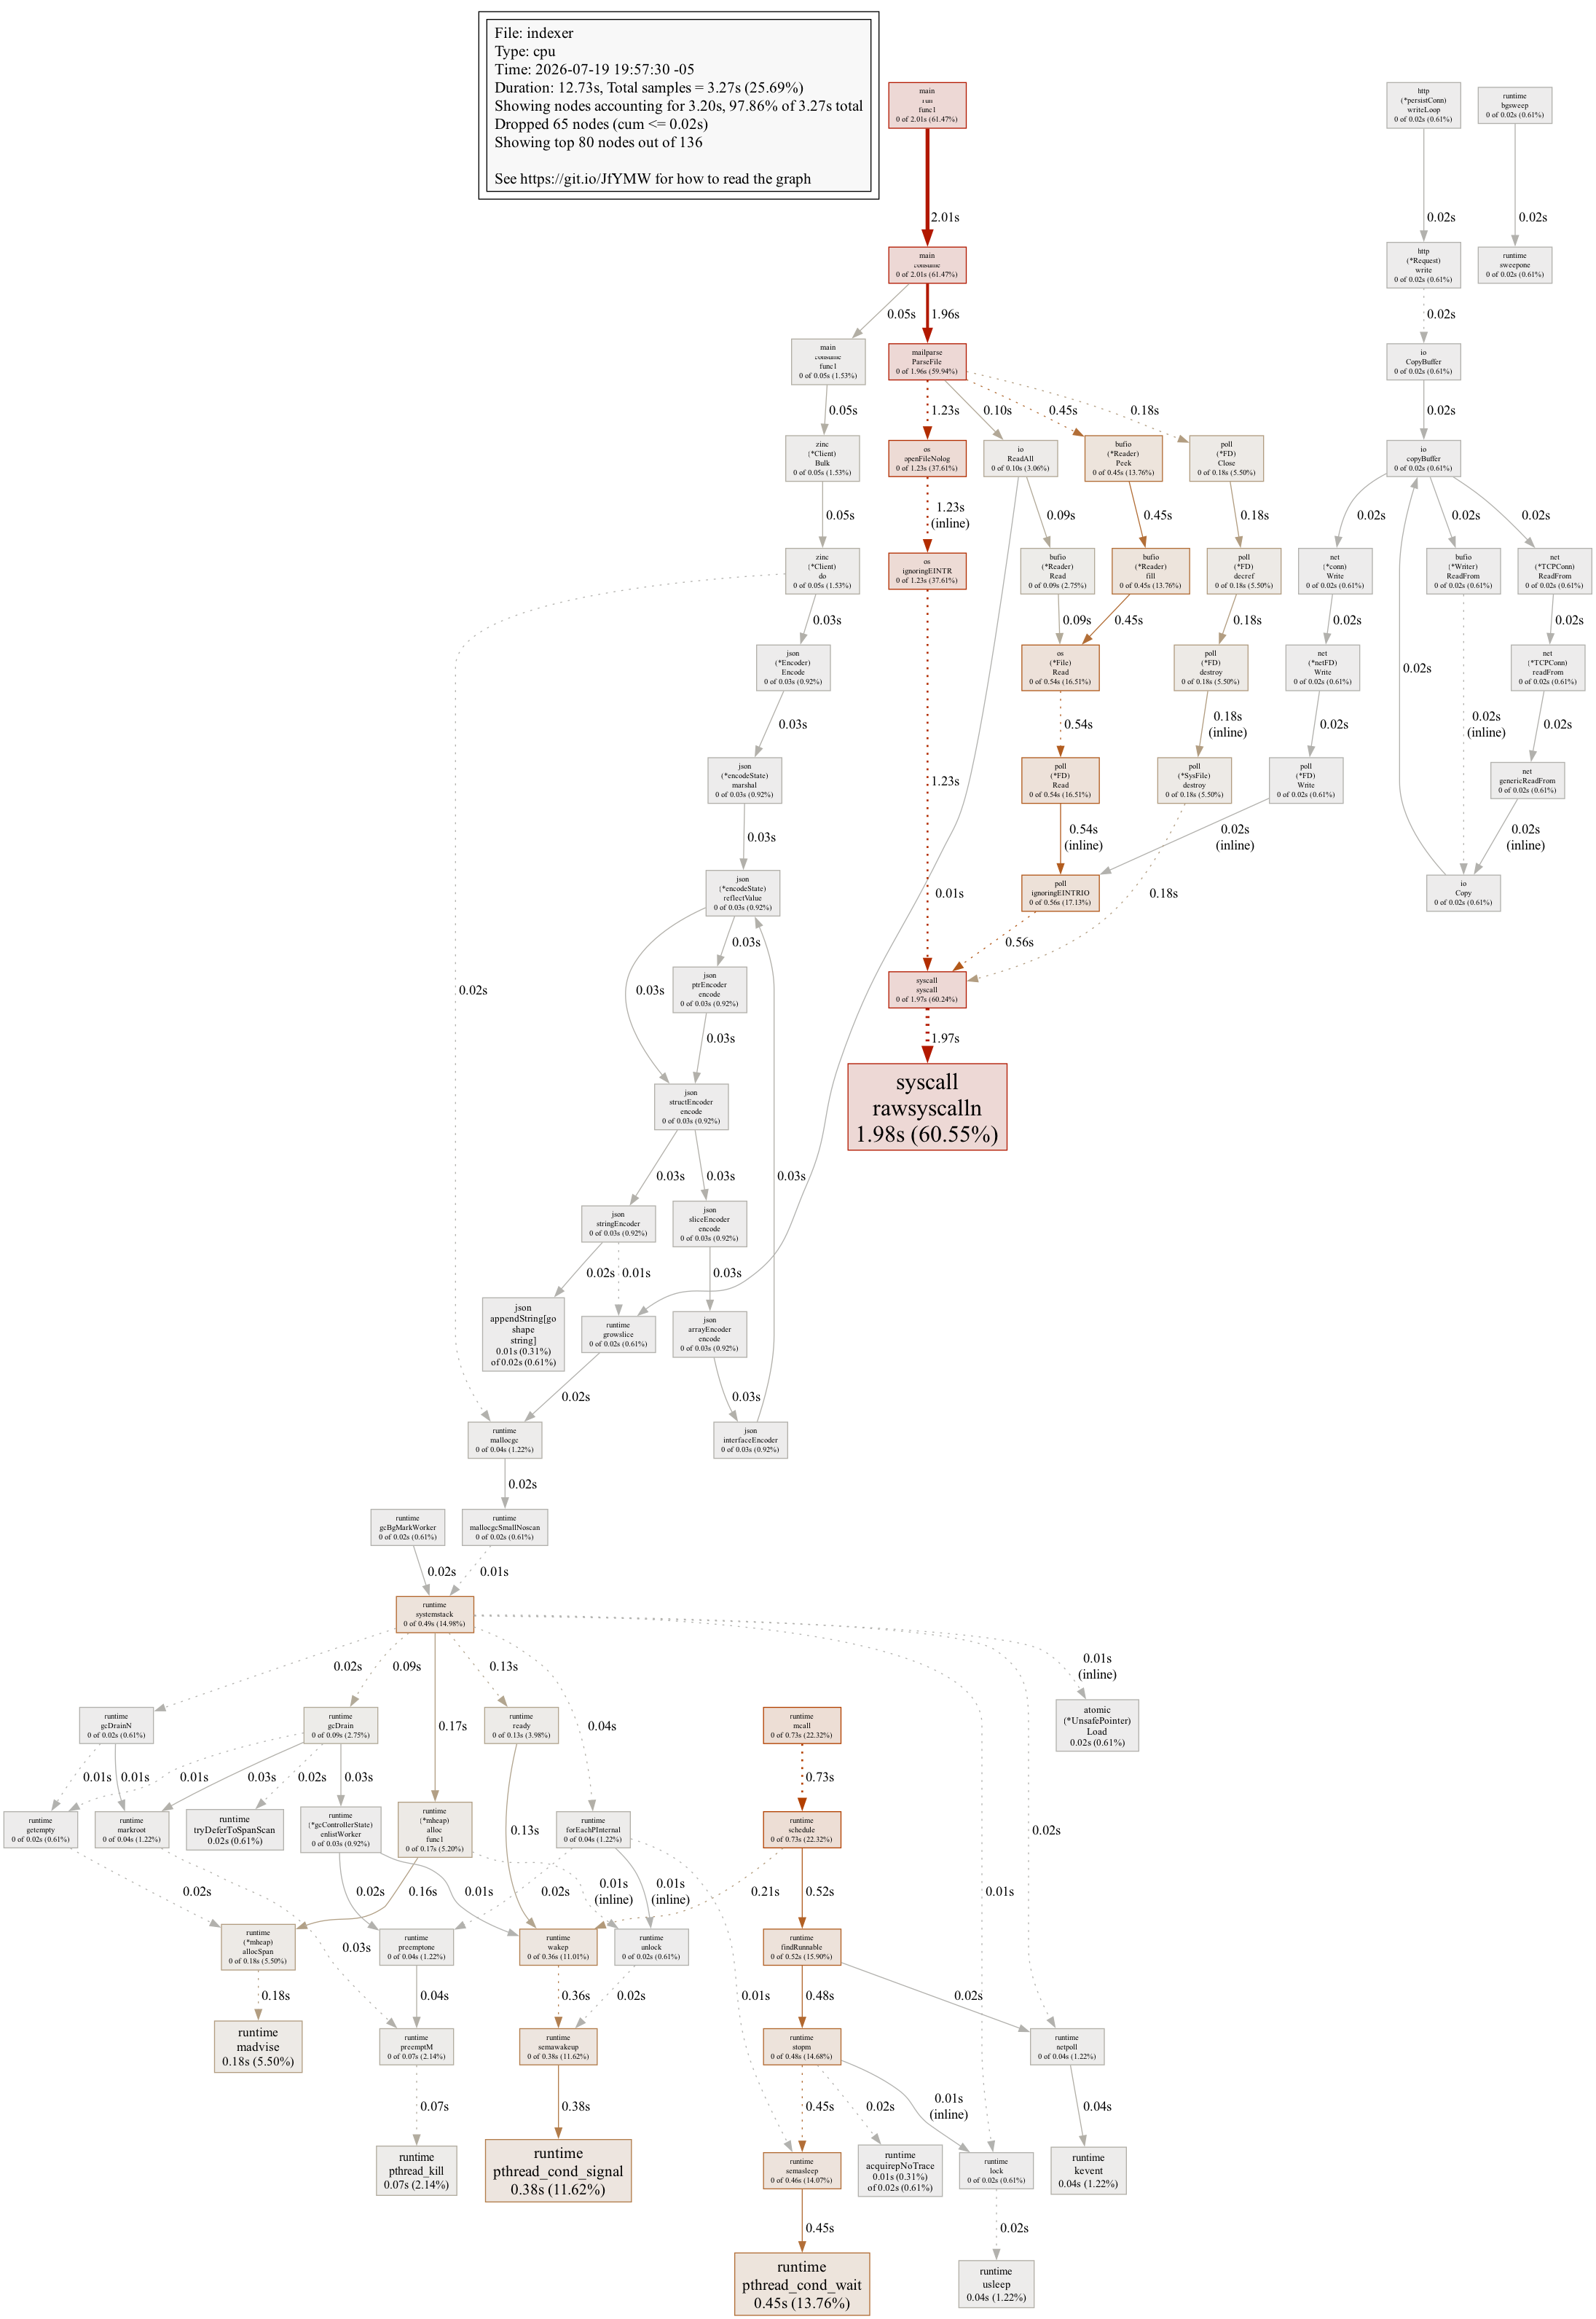
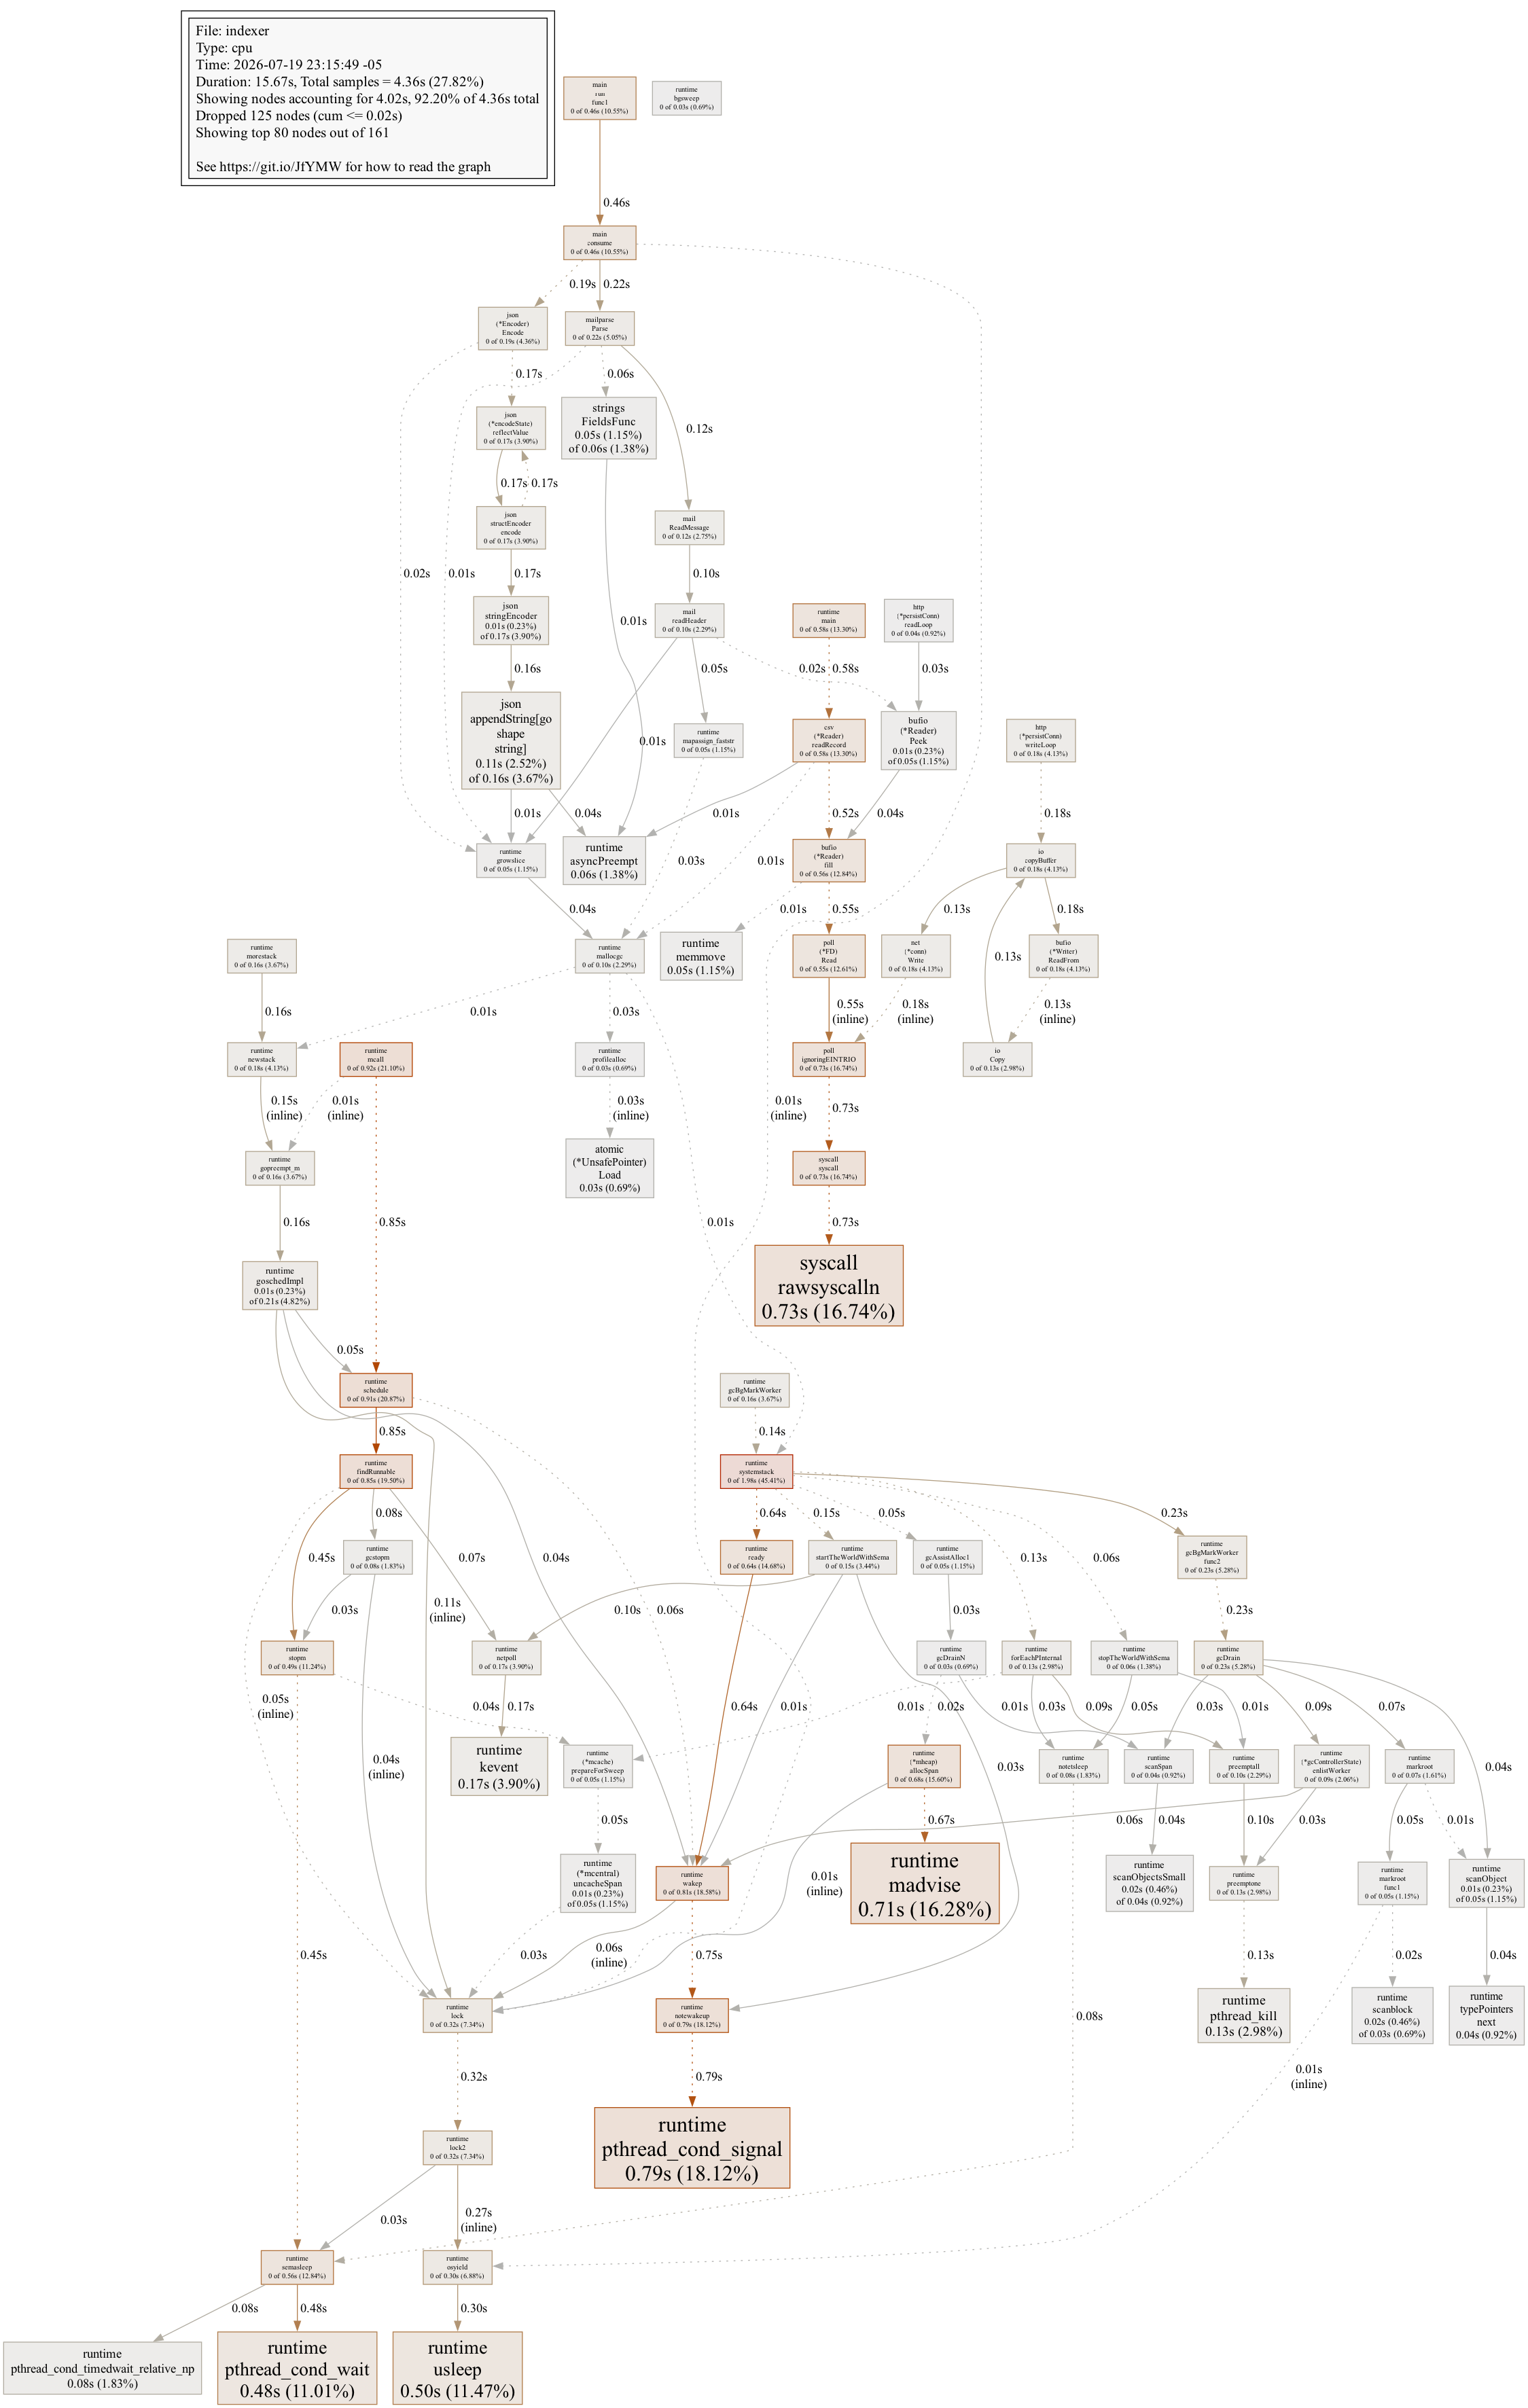
Profiling sobre la base completa de Enron
Perfiles regenerados con 100000 correos reales en vez de sinteticos:
15.52s a 9.41s. El perfil muestra el cuello de botella desplazandose
de la espera de red (baseline, CPU activa 28%) a la serializacion JSON
y el movimiento de memoria (concurrente), que marca el limite practico
de esta arquitectura.

diff --git a/README.md b/README.md
@@ -49,10 +49,17 @@ go build -o bin/indexer ./cmd/indexer
 go build -o bin/yanakilla ./cmd/yanakilla
 ```
 
-Indexar una base de correos:
+Indexar una base de correos. El indexador acepta tanto el árbol de directorios original como el export en CSV, y decide según lo que reciba:
 
 ```bash
 ./bin/indexer enron_mail_20110402
+./bin/indexer emails.csv
+```
+
+El CSV debe tener las columnas `file` y `message`, donde `file` es la ruta original del correo y `message` su contenido completo. Para reconstruir el árbol de directorios a partir del CSV:
+
+```bash
+./bin/indexer -extract enron_mail_20110402 emails.csv
 ```
 
 Levantar el servidor:
@@ -105,25 +112,40 @@ go tool pprof -top profiles/cpu.prof
 
 ### Hallazgos
 
-Medición sobre 40 000 correos (77 MB de contenido) en Apple Silicon.
+Medición sobre 100 000 correos de la base de Enron (228 MB de contenido) en Apple Silicon.
 
 | Configuración | Duración | Throughput |
 |---------------|----------|------------|
-| 1 worker, batch 100 | 12.60 s | 3 175 docs/s |
-| 8 workers, batch 1000 | 5.35 s | 7 479 docs/s |
+| 1 worker, batch 100 | 15.52 s | 6 444 docs/s |
+| 8 workers, batch 1000 | 9.41 s | 10 622 docs/s |
 
-El perfil del baseline muestra por qué:
+El perfil no solo mide la mejora, también muestra cómo se mueve el cuello de botella. En el baseline la CPU está casi todo el tiempo esperando:
 
 ```
-Duration: 12.73s, Total samples = 3.27s (25.69%)
+Duration: 15.67s, Total samples = 4.36s (27.82%)
 
       flat  flat%   sum%        cum   cum%
-     1.98s 60.55% 60.55%      1.98s 60.55%  syscall.rawsyscalln
-     0.45s 13.76% 74.31%      0.45s 13.76%  runtime.pthread_cond_wait
-     0.38s 11.62% 85.93%      0.38s 11.62%  runtime.pthread_cond_signal
+     790ms 18.12% 18.12%      790ms  runtime.pthread_cond_signal
+     730ms 16.74% 34.86%      730ms  syscall.rawsyscalln
+     710ms 16.28% 51.15%      710ms  runtime.madvise
+     500ms 11.47% 62.61%      500ms  runtime.usleep
 ```
 
-La CPU está activa apenas el 26 % de la duración total y el 60 % de las muestras corresponden a syscalls. El proceso no está limitado por cómputo sino por espera de entrada/salida: lectura de miles de archivos pequeños y requests HTTP hacia ZincSearch.
+Con la CPU activa solo el 28 % de la duración y el grueso de las muestras en sincronización y syscalls, el proceso está limitado por entrada/salida, no por cómputo: espera respuestas HTTP de ZincSearch.
+
+Al pasar a 8 workers el perfil cambia de forma. Desaparece la espera y emerge el trabajo real de preparar cada lote:
+
+```
+Duration: 9.56s, Total samples = 3.34s (34.95%)
+
+      flat  flat%   sum%        cum   cum%
+     590ms 17.66% 17.66%      590ms  syscall.rawsyscalln
+     540ms 16.17% 33.83%      540ms  runtime.memclrNoHeapPointers
+     500ms 14.97% 48.80%      500ms  runtime.memmove
+     420ms 12.57% 61.38%      480ms  encoding/json.appendString
+```
+
+El cuello de botella se desplazó de *esperar la red* a *serializar JSON y mover memoria*. Ese es el límite práctico de esta arquitectura: a partir de aquí, ganar más velocidad exigiría reducir el coste de serialización, no añadir más concurrencia.
 
 De ahí las dos decisiones de diseño del indexador:
 
@@ -131,6 +153,17 @@ De ahí las dos decisiones de diseño del indexador:
 2. **Reutilización de conexiones.** El cliente configura `MaxIdleConnsPerHost` para evitar renegociar TCP en cada request del bulk.
 
 El tamaño del lote domina sobre el número de workers: pasar de 100 a 1000 documentos por request reduce el número de viajes de red en un orden de magnitud.
+
+### Formato de los correos
+
+La base completa se indexa en unos 53 s (517 374 correos, 910 MB). De ellos, 27 correos no cumplen el RFC 5322: tienen asuntos de varias líneas cuya continuación no está indentada, por lo que `net/mail` interpreta la segunda línea como una cabecera nueva y falla.
+
+```
+Subject: Call Laddie for house party:
+1. Mom &dad
+```
+
+En lugar de descartarlos, el parser reintenta una vez: si el primer intento falla, re-indenta las líneas que no son inicio de cabecera válido y vuelve a parsear. Los correos bien formados nunca pasan por ese camino.
 
 ## Desarrollo del frontend
 